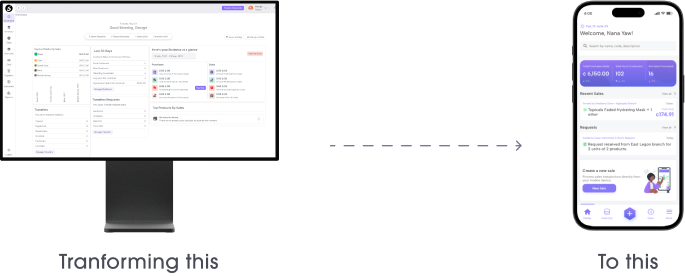
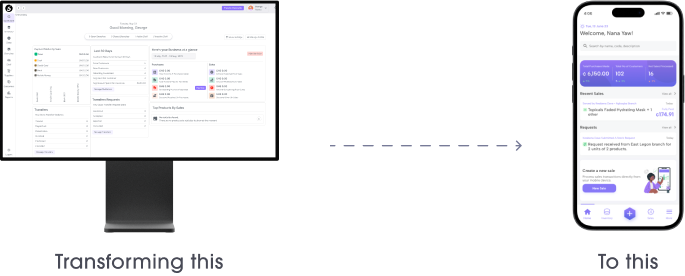
i

Changed region(s): [[0.0613, 0.8986, 0.3372, 1.0]]

diff --git a/src/pages/layout/Navbar.tsx b/src/pages/layout/Navbar.tsx
@@ -1,6 +1,11 @@
 import { Menu } from "lucide-react";
 import { Button } from "@/components/ui/button";
-import { Sheet, SheetContent, SheetTrigger } from "@/components/ui/sheet";
+import {
+  Sheet,
+  SheetClose,
+  SheetContent,
+  SheetTrigger,
+} from "@/components/ui/sheet";
 import { NavLink } from "react-router-dom";
 import logo from "/assets/images/Logo.svg";
 import minilogo from "/assets/images/Logo.png";
@@ -17,9 +22,9 @@ const Navbar = () => {
           </div>
         </nav>
         <Sheet>
-          <div className="md:hidden flex items-center justify-between text-black font-bold">
+          <div className="md:hidden flex items-center justify-between mr-3 text-black font-bold">
             <NavLink to="/work">
-              <img src={minilogo} alt="Logo" className="h-10" />
+              <img src={minilogo} alt="Logo" className="h-8" />
             </NavLink>
           </div>
           <SheetTrigger asChild>
@@ -28,7 +33,7 @@ const Navbar = () => {
               size="icon"
               className="shrink-0 md:hidden border-0"
             >
-              <Menu className="h-8 w-8" />
+              <Menu className="h-6 w-6" />
               <span className="sr-only">Toggle navigation menu</span>
             </Button>
           </SheetTrigger>
@@ -38,21 +43,27 @@ const Navbar = () => {
                 <img src={logo} alt="Logo" className="" />
                 <span></span>
               </div>
-              <NavLink to="/work" className="hover:text-foreground">
-                Work
-              </NavLink>
-              <NavLink
-                to="/"
-                className="text-muted-foreground hover:text-foreground"
-              >
-                About
-              </NavLink>
-              <NavLink
-                to="/contact"
-                className="text-muted-foreground hover:text-foreground"
-              >
-                Contact
-              </NavLink>
+              <SheetClose asChild>
+                <NavLink to="/work" className="hover:text-foreground">
+                  Work
+                </NavLink>
+              </SheetClose>
+              <SheetClose asChild>
+                <NavLink
+                  to="/"
+                  className="text-muted-foreground hover:text-foreground"
+                >
+                  About
+                </NavLink>
+              </SheetClose>
+              <SheetClose asChild>
+                <NavLink
+                  to="/contact"
+                  className="text-muted-foreground hover:text-foreground"
+                >
+                  Contact
+                </NavLink>
+              </SheetClose>
             </nav>
           </SheetContent>
         </Sheet>

diff --git a/src/pages/work/Work.tsx b/src/pages/work/Work.tsx
@@ -150,30 +150,28 @@ const Work = () => {
         </div>
       </section>
 
-      <section className="py-8 pr-20 xl:pl-36 max-sm:pb-0 pl-4 mx-auto">
+      <section className="py-8 pr-20 xl:pl-36 max-sm:pb-0 pl-4 max-sm:w-full">
         <div
-          className="overflow-x-auto"
           style={{ scrollbarWidth: "none", WebkitOverflowScrolling: "touch" }}
+          className=" overflow-x-auto appear-on-scroll flex max-sm:py-0 items-center justify-evenly py-10 max-sm:w-full max-sm:ml-5"
         >
-          <div className="appear-on-scroll flex max-sm:py-0 justify-evenly py-10">
-            {moreWork.map((work, index) => (
-              <div key={index}>
-                <Card
-                  className="border-0 mb-4 md:max-2xl:w-[260px] w-[250px] h-[205px] max-sm:w-[150px] max-sm:h-[150px] md:max-2xl:h-[250px] md:max-xl:w-[205px] md:max-xl:h-[205px] mr-10 bg-cover bg-center rounded-none"
-                  style={{
-                    backgroundImage: `url(${getImgUrl(work.img)})`,
-                  }}
-                ></Card>
-                <a
-                  href={work.link}
-                  target="_blank"
-                  className="md:max-2xl:max-w-[250px] md:max-xl:max-w-[205px] text-xl max-sm:text-xs md:max-xl:text-base mt-2 pt-6 font-avant-garde-thin font-thin leading-6 tracking-wide text-gray-400"
-                >
-                  {work.name}
-                </a>
-              </div>
-            ))}
-          </div>
+          {moreWork.map((work, index) => (
+            <div key={index}>
+              <Card
+                className="border-0 mb-4 md:max-2xl:w-[260px] w-[250px] h-[205px] max-sm:w-[150px] max-sm:h-[150px] md:max-2xl:h-[250px] md:max-xl:w-[205px] md:max-xl:h-[205px] mr-10 bg-cover bg-center rounded-none"
+                style={{
+                  backgroundImage: `url(${getImgUrl(work.img)})`,
+                }}
+              ></Card>
+              <a
+                href={work.link}
+                target="_blank"
+                className="md:max-2xl:max-w-[250px] md:max-xl:max-w-[205px] text-xl max-sm:text-xs md:max-xl:text-base mt-2 pt-6 font-avant-garde-thin font-thin leading-6 tracking-wide text-gray-400"
+              >
+                {work.name}
+              </a>
+            </div>
+          ))}
         </div>
       </section>
       <hr className="my-6 border-t border-gray-300 mx-24 max-sm:mx-4" />

diff --git a/src/pages/about/About.tsx b/src/pages/about/About.tsx
@@ -35,7 +35,7 @@ const About = () => {
                 and improving myself and my skills, and when I'm not online, I'm
                 probably binge-watching a TV show or taking a nap.
               </p>
-              <Button className="max-sm:hidden rounded-none bg-black hover:bg-white hover:text-black hover:border-black hover:border text-base text-white px-20 py-8 border mt-6">
+              <Button className="max-sm:hidden rounded-none bg-black hover:bg-white hover:text-black hover:border-black hover:border text-base text-white px-20 py-7 border mt-6">
                 My Resume
               </Button>
             </div>
@@ -44,12 +44,12 @@ const About = () => {
               <img
                 src={heart}
                 alt="heart"
-                className="h-12 absolute z-10 heart-kiss"
+                className="h-14 absolute z-10 heart-kiss"
               />
               <img
                 src={tanjiro}
                 alt="tanjiro"
-                className="h-12 absolute z-10 tanjiro"
+                className="h-14 absolute z-10 tanjiro"
               />
             </div>
           </div>
@@ -124,7 +124,7 @@ const About = () => {
             Social Media Management, SEO, Copy & Content Writing
           </p>
 
-          <Button className="appear-on-scroll rounded-none bg-white hover:bg-black hover:text-white hover:border-white hover:border text-base px-20 py-8 text-black border">
+          <Button className="appear-on-scroll rounded-none bg-white hover:bg-black hover:text-white hover:border-white hover:border text-base px-18 py-7 text-black border">
             My Resume
           </Button>
         </div>

diff --git a/src/pages/work/Restaurant.tsx b/src/pages/work/Restaurant.tsx
@@ -114,7 +114,7 @@ const Restaurant = () => {
                         online platforms.
                       </p>
                     </div>
-                    <div>
+                    <div className="max-sm:ml-3">
                       <h2 className=" font-avant-garde text-3xl font-medium leading-10">
                         Goal
                       </h2>
@@ -123,6 +123,7 @@ const Restaurant = () => {
                           <img
                             src={getImgUrl(project.images[1])}
                             alt="Low-fi Wireframes Image"
+                            className=" max-sm:mt-7"
                           />
                         </div>
                       )}
@@ -215,6 +216,7 @@ const Restaurant = () => {
                       <img
                         src={getImgUrl(project.images[3])}
                         alt="Low-fi Wireframes Image"
+                        className="max-sm:h-44 max-sm:mt-56"
                       />
                     </>
                   )}
@@ -225,6 +227,7 @@ const Restaurant = () => {
                       <img
                         src={getImgUrl(project.images[4])}
                         alt="Low-fi Wireframes Image"
+                        className="max-sm:h-44 max-sm:mt-56"
                       />
                     </>
                   )}

diff --git a/src/pages/layout/Footer.tsx b/src/pages/layout/Footer.tsx
@@ -35,13 +35,13 @@ const Footer = () => {
         <div className="appear-on-scroll flex pt-14 max-sm:pt-8">
           <Link
             to="/contact"
-            className="rounded-none hover:bg-black link-txt hover:text-white bg-white max-sm:px-10 px-20 py-5 border border-black"
+            className="rounded-none hover:bg-black link-txt hover:text-white bg-white max-sm:px-10 px-20 py-4 border border-black"
           >
             Contact
           </Link>
           <Link
-            to="/about"
-            className="rounded-none bg-black hover:bg-white hover:text-black hover:border-black hover:border text-base text-white px-20 py-5 max-sm:px-10 max-sm:ml-3 border-2 ml-6"
+            to="/"
+            className="rounded-none bg-black hover:bg-white hover:text-black hover:border-black hover:border text-base text-white px-20 py-4 max-sm:px-10 max-sm:ml-3 border-1 ml-6"
           >
             About Me
           </Link>

diff --git a/src/ScrollToTop.tsx b/src/ScrollToTop.tsx
@@ -40,10 +40,10 @@ const ScrollToTop: React.FC = () => {
       {isVisible && (
         <>
           <button
-            className="fixed bottom-4 right-4 z-50 flex items-center flex-col justify-center text-black p-3 bg-transparent transition duration-300"
+            className="fixed bottom-4 max-sm:text-xs right-4 z-50 flex items-center flex-col justify-center text-black p-3 bg-transparent transition duration-300"
             onClick={scrollToTop}
           >
-            <ChevronsUp size={32} />
+            <ChevronsUp size={32} className="max-sm:h-6" />
             Back to the top
           </button>
         </>

diff --git a/src/index.css b/src/index.css
@@ -14,6 +14,10 @@ body {
   font-style: normal;
 }
 
+b {
+  font-family: "ITC Avant Garde Std Bk", sans-serif !important;
+}
+
 .avant-garde-extralight {
   font-family: "ITC Avant Garde Std XLt", sans-serif;
 }
@@ -343,7 +347,7 @@ ul.circle-list li::marker {
   }
 
   .heart {
-    top: 53%;
+    top: 71%;
     left: 58%;
     height: 40px;
   }

diff --git a/tailwind.config.js b/tailwind.config.js
@@ -29,6 +29,9 @@ module.exports = {
       },
     },
     extend: {
+      padding: {
+        18: "4.5rem",
+      },
       screens: {
         xl2: "1450px", // Add custom breakpoint for screens larger than 1450px
       },
